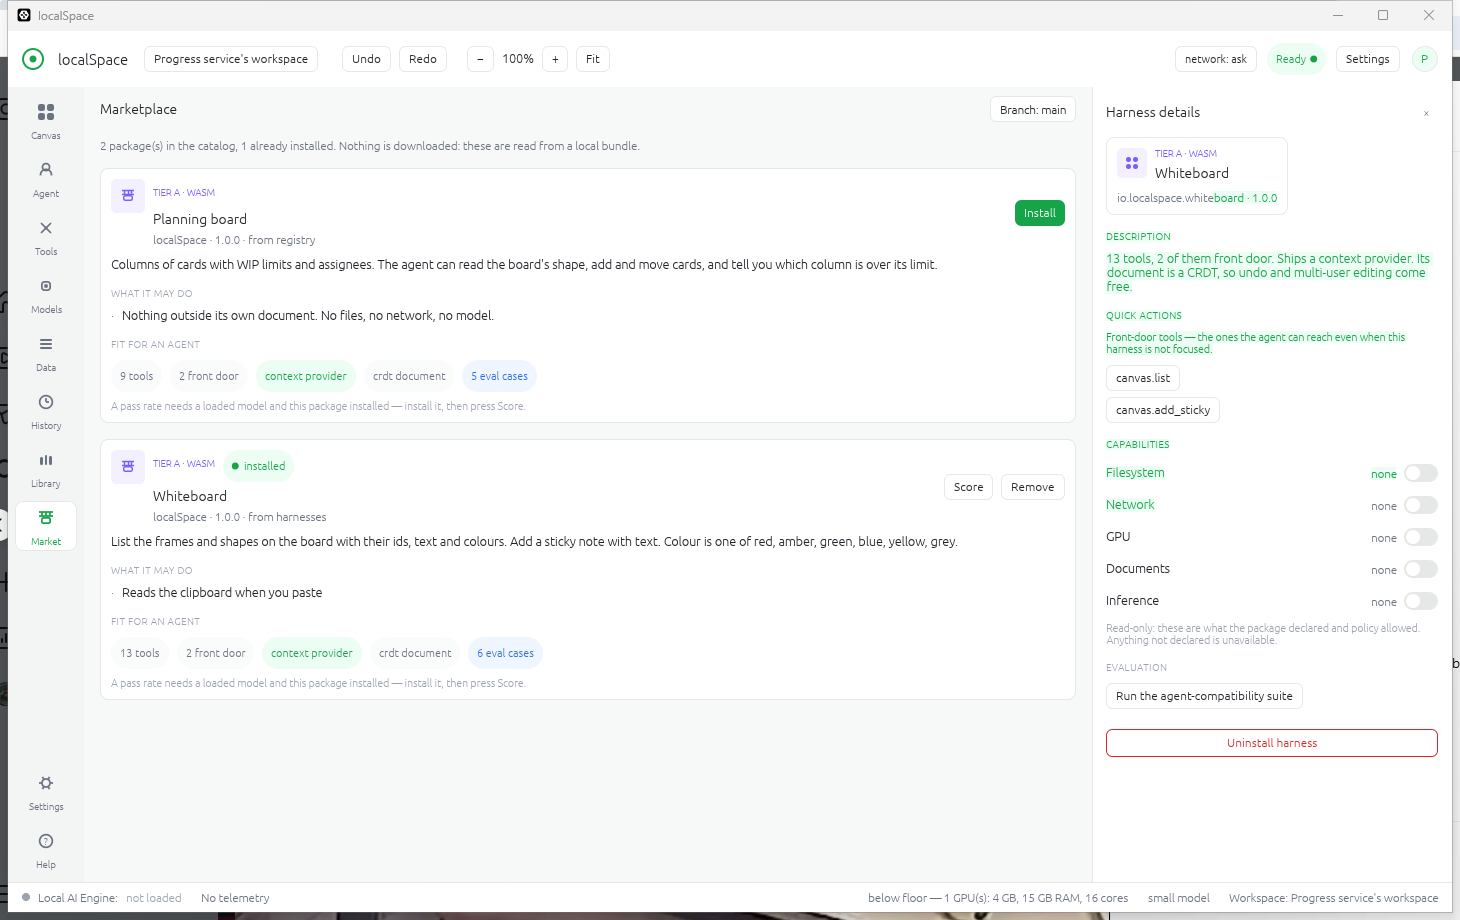
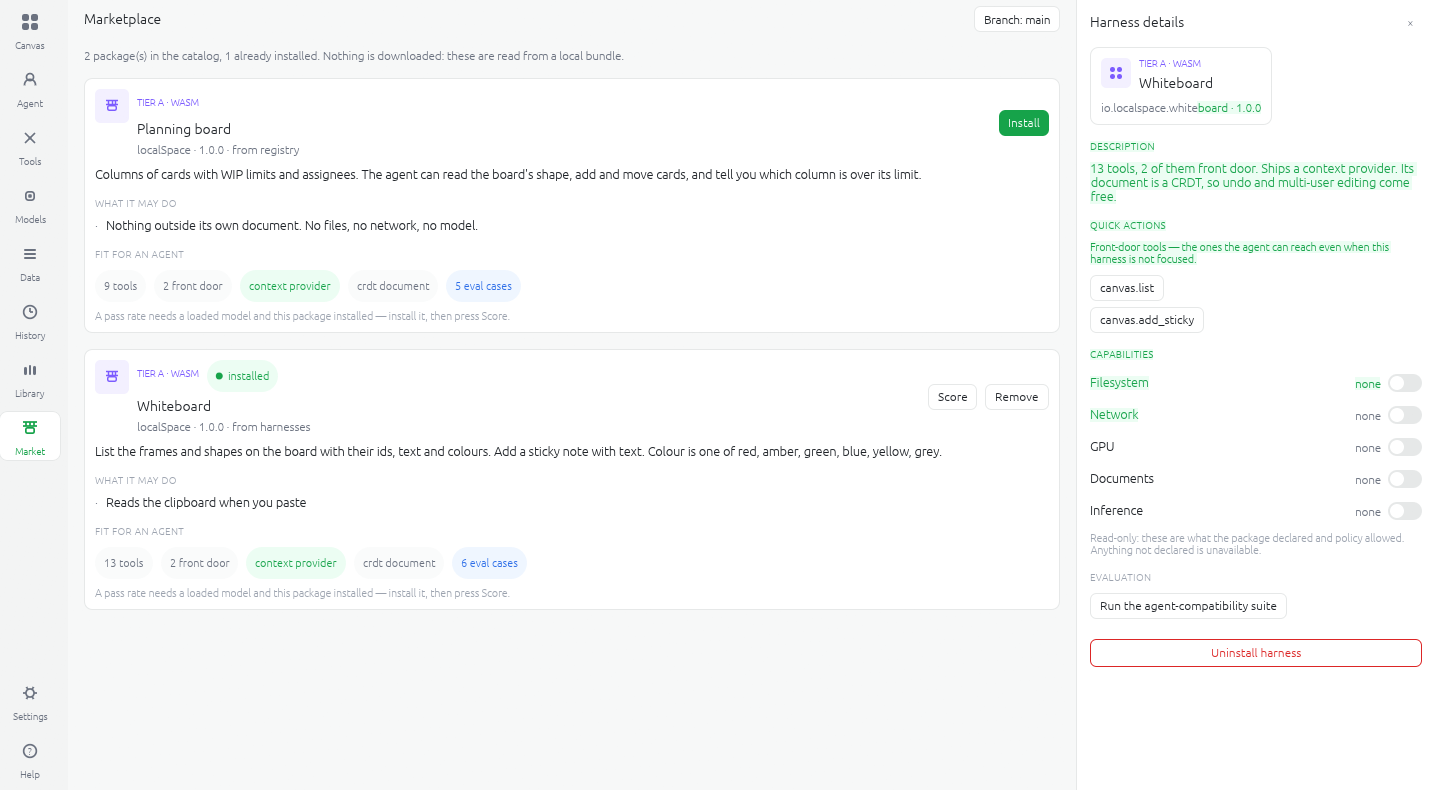
docs: the app screenshots cropped so no account name shows
docs/screenshot.png, editing.png and marketplace.png, and their copies in
site/assets, showed the Windows account's name as the workspace's, in
the toolbar and again in the status bar (the founder's answers to the
pre-switch scan, 2026-09-25). Cropped to 1434x790: the window's title,
the toolbar row and the status bar go, with the slivers of desktop at
the edges; the rail, the board, the side panel and the message box stay.
The landing page's width and height attributes follow. The old images
stay in the history, which the founder accepts: only an account name.

diff --git a/site/index.html b/site/index.html
@@ -365,7 +365,7 @@ footer{padding:56px 0 30px}
           <span class="frame-title">localSpace &mdash; whiteboard harness &middot; branch: main</span>
         </div>
         <div class="frame-shot">
-          <img src="assets/canvas.png" width="1460" height="920" decoding="async"
+          <img src="assets/canvas.png" width="1434" height="790" decoding="async"
                alt="The localSpace desktop client. A whiteboard canvas holds four cards; a rail on the left lists Canvas, Agent, Tools, Models, Data, History, Library and Market; a right-hand panel shows the Whiteboard harness with its capabilities — filesystem, network, GPU, documents, inference — all set to none; the status bar reads &quot;No telemetry&quot;.">
         </div>
       </div>
@@ -437,7 +437,7 @@ footer{padding:56px 0 30px}
             <span class="frame-title">localSpace &mdash; marketplace</span>
           </div>
           <div class="frame-shot">
-            <img src="assets/marketplace.png" width="1460" height="920" loading="lazy" decoding="async"
+            <img src="assets/marketplace.png" width="1434" height="790" loading="lazy" decoding="async"
                  alt="The localSpace marketplace listing two packages, Planning board and Whiteboard. Each entry states what it may do in plain language and shows its fit for an agent: tool count, front-door tools, context provider, CRDT document and eval cases.">
           </div>
         </div>
@@ -471,7 +471,7 @@ footer{padding:56px 0 30px}
             <span class="frame-title">localSpace &mdash; direct manipulation, one commit per gesture</span>
           </div>
           <div class="frame-shot">
-            <img src="assets/editing.png" width="1460" height="920" loading="lazy" decoding="async"
+            <img src="assets/editing.png" width="1434" height="790" loading="lazy" decoding="async"
                  alt="The localSpace whiteboard with a shape selected, a colour palette and a tool palette open, and the status bar reading &quot;1 of 5 selected&quot;.">
           </div>
         </div>
